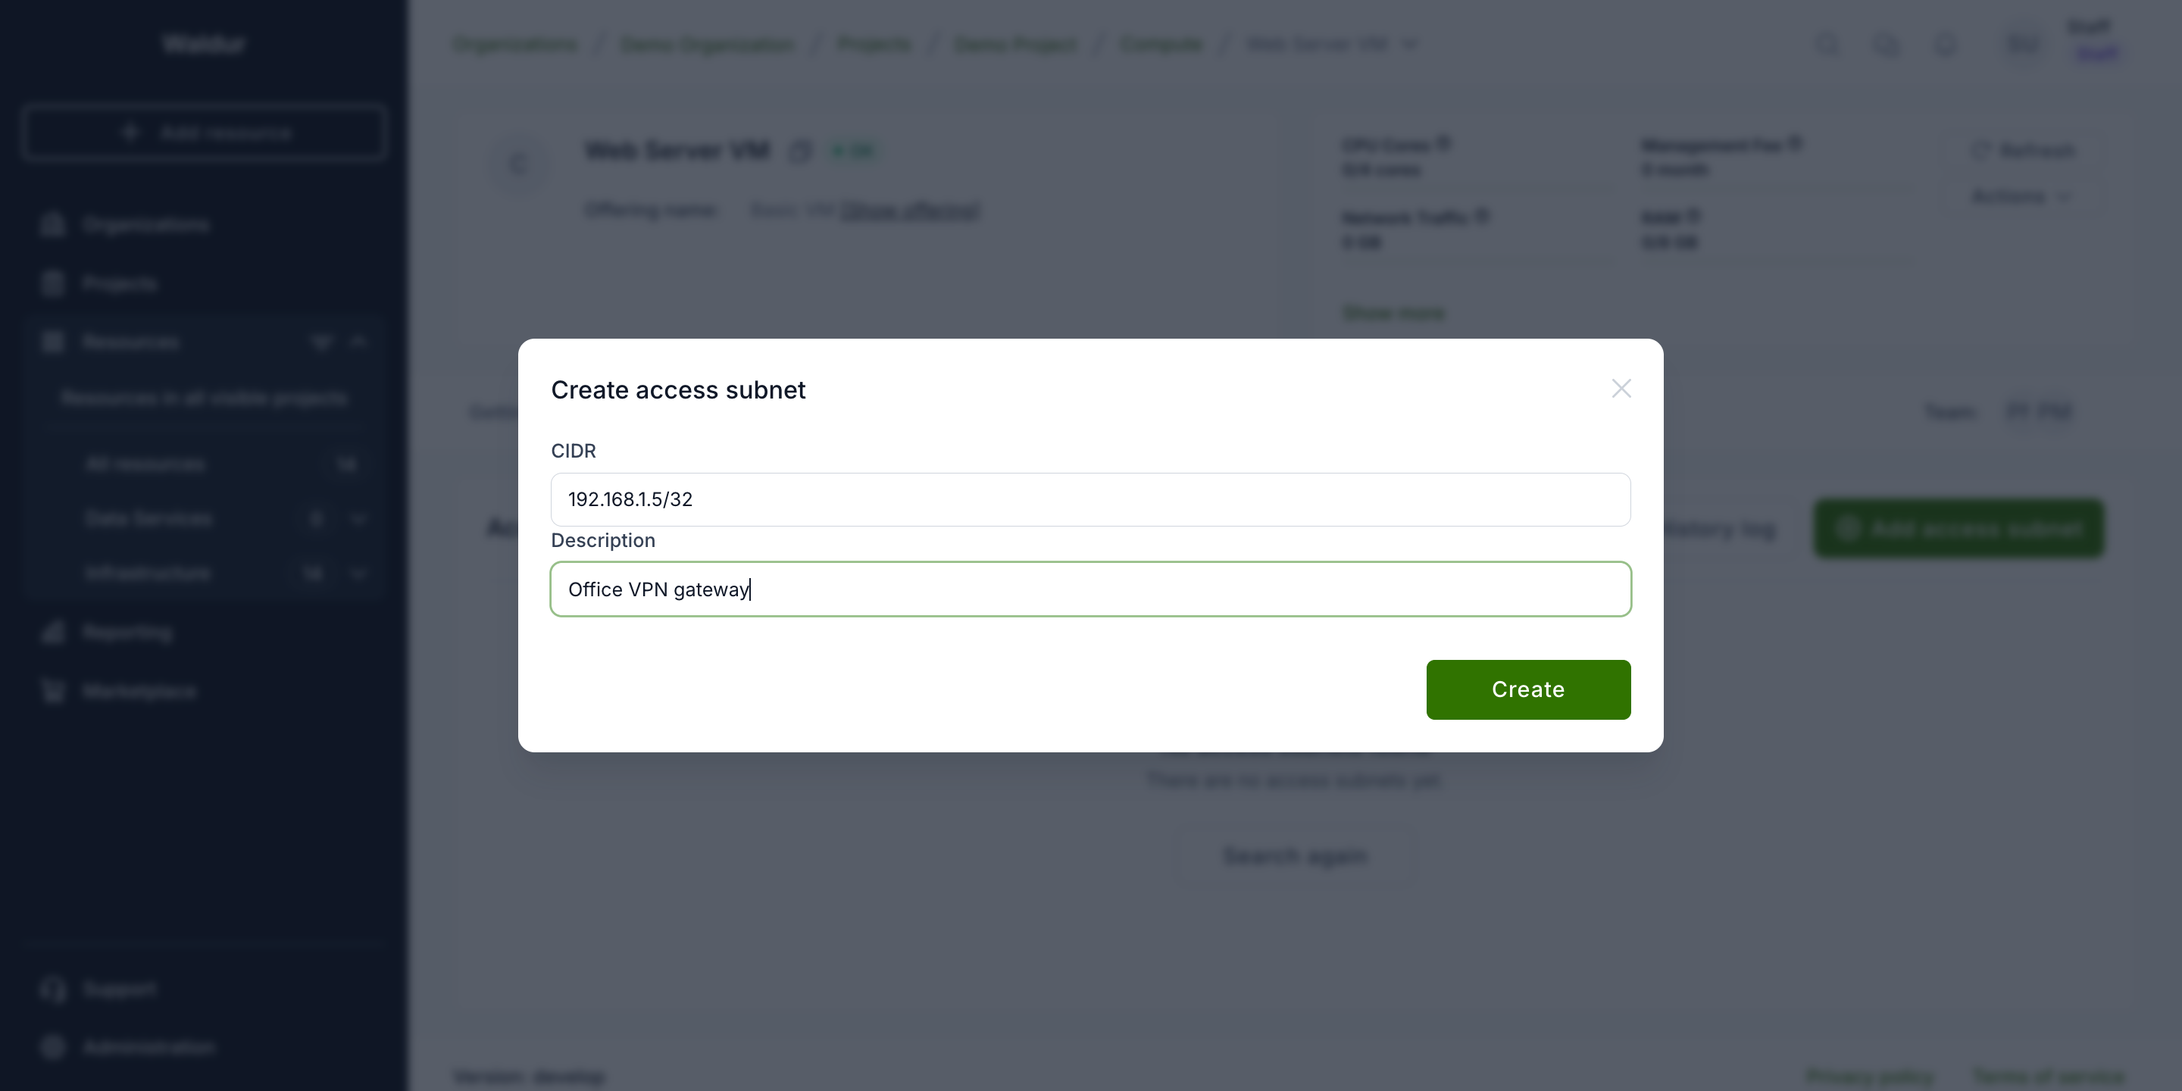
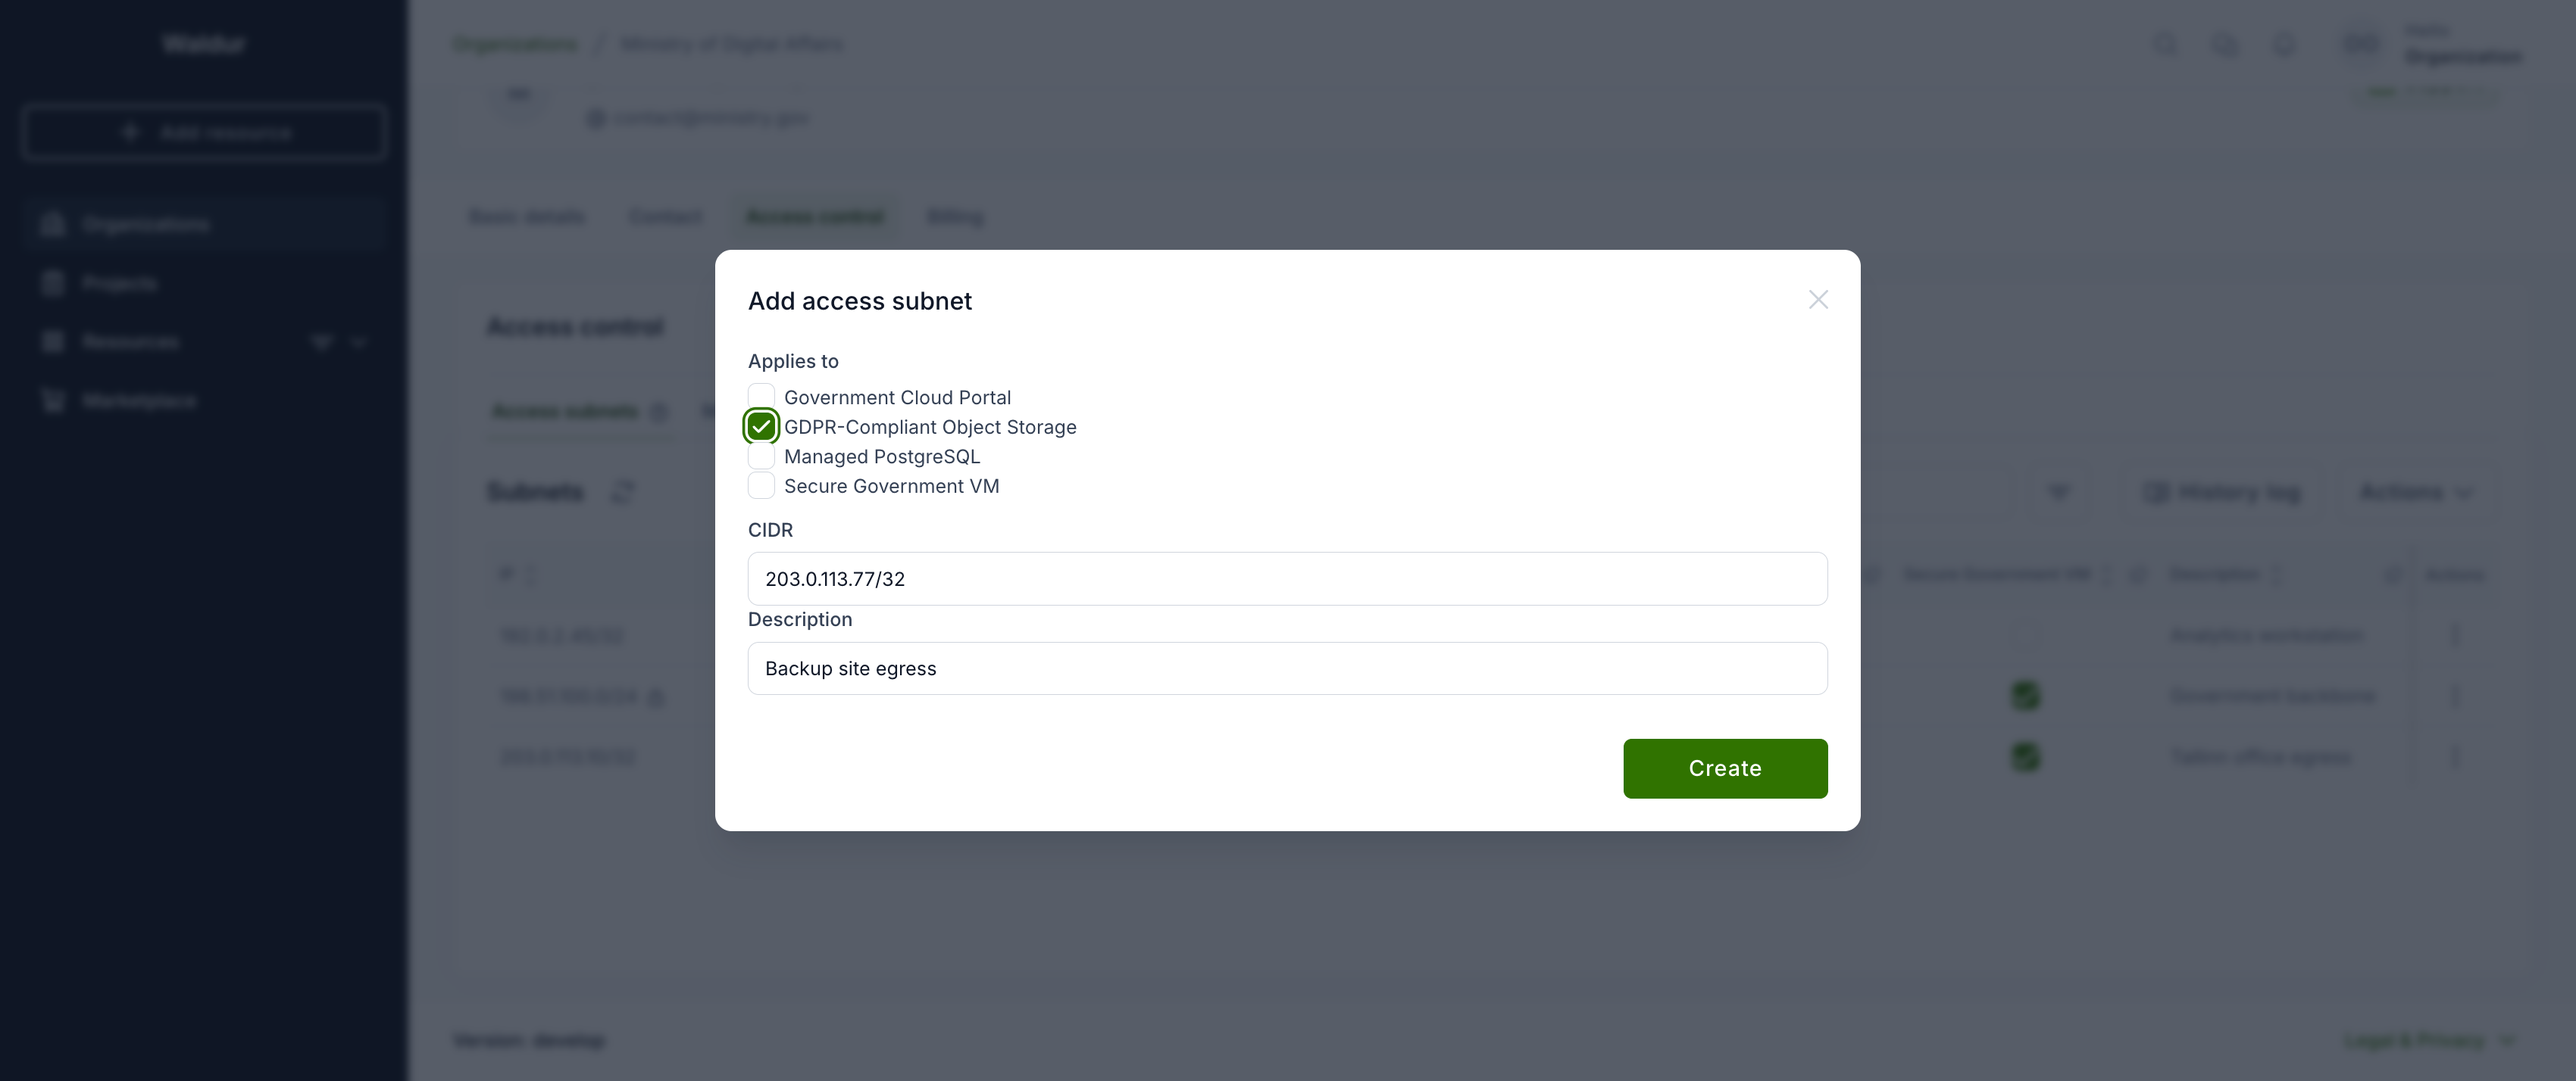
Rewrite access subnets for the unified organization list

diff --git a/docs/user-guide/customer-organization/resource-access-subnets.md b/docs/user-guide/customer-organization/resource-access-subnets.md
@@ -1,22 +1,113 @@
-# Resource access subnets
+# Access subnets
 
-Some offerings let you attach a list of **allowed access subnets** to each
-resource — the IP addresses that should be allowed to reach the backend entity
-the resource represents (for example the object storage bucket, database, or
-virtual machine behind the resource). Consumers add single hosts (`/32`), and
-the service provider can additionally publish wider **default** ranges on the
-offering (see below).
+An organization keeps one list of **trusted networks**. Each entry is an IP
+address or range, and says what it is trusted *for*:
 
-Waldur itself does not block traffic based on this list. The subnets are
-**advisory data**: they are published through the API so that an external
-firewall (or the service provider's automation) can build an allow-list and
-enforce it on the actual backend. Think of it as a curated allow-list that
-travels with the resource.
+- **signing in to the portal** on behalf of the organization, and/or
+- **reaching the resources** the organization holds of a particular offering —
+  the backend entity behind each resource, such as an object storage bucket, a
+  database, or a compute allocation.
+
+An address is therefore described once ("office egress") rather than maintained
+in two separate places.
+
+!!! warning
+    The two scopes do very different things. Portal sign-in is enforced by
+    Waldur itself. Offering scopes are, by default, **advisory data** — they are
+    published through the API so that an external firewall (or the provider's
+    automation) can build an allow-list and enforce it on the actual backend.
+    Waldur only blocks traffic on them if the offering enables
+    [concealment](#concealing-restricted-resources-optional).
+
+## Managing the list
+
+Open **Organization → Manage → Access control** and select the **Access
+subnets** tab. The table has one row per address and one column per thing it
+can be trusted for: your Waldur site, then each offering your organization
+consumes that supports access subnets.
+
+![The Access subnets tab](../img/resource-access-subnets-tab.png)
+
+To add an address, use **Actions → Add access subnet**. Enter the CIDR, an
+optional description, and tick what it should apply to. Leaving **Applies to**
+empty is fine — the entry is then trusted for nothing until you tick a column
+in the table.
+
+![Adding an access subnet](../img/resource-access-subnets-add.png)
+
+Ticking or unticking a cell asks for confirmation and names the change, so it
+is clear what is about to happen before anything is saved.
+
+![Confirming that an address applies to portal sign-in](../img/resource-access-subnets-confirm.png)
+
+!!! danger "Enabling the sign-in column"
+    As soon as **any** address is trusted for portal sign-in, only listed
+    addresses can sign in on behalf of the organization. Everyone signing in
+    from elsewhere loses access to it.
+
+    This is why the sign-in column is off by default, and why adding an address
+    to reach a bucket never restricts sign-in as a side effect.
+
+### What you may enter
+
+| Who | Allowed |
+|-----|---------|
+| Organization owners | a single IP address — `/32`, or `/128` for IPv6 |
+| Staff | any width except `/0` |
+
+A bare address such as `192.168.1.5` is treated as `192.168.1.5/32`.
+
+A network with host bits set (for example `203.0.113.5/24`) is rejected rather
+than silently widened to `203.0.113.0/24` — that would grant a whole range
+where a single host was written.
+
+!!! note "Entries added by staff"
+    An entry created by staff is marked with a lock and cannot be changed or
+    removed by anyone else, whatever its width. It stays visible so you can see
+    why an address is allowed. If staff later widens an entry you created, it
+    becomes staff-managed for the same reason.
+
+### Offerings you no longer use
+
+If your organization terminates its last resource of an offering, entries
+trusted for it are **kept** — reprovisioning then restores your protection
+without reconfiguring anything.
+
+Such a column is marked as no longer in use. You can untick it to remove the
+entry's scope, but you cannot add it back until the organization holds a
+resource of that offering again. While dormant, the addresses are not published
+to the firewall allow-list.
+
+### Addresses published by the provider
+
+Below the table, **Also allowed by the service provider** lists ranges the
+provider publishes on its own offerings. They widen what may reach your
+resources, they are included in the exported allow-list, and they cannot be
+changed here — only the provider can edit them.
+
+## Checking what it means for your resources
+
+**Actions → Show resource impact** lists every resource your organization
+holds, the addresses that can reach each, and whether the list is actually
+enforced. The row menu on an address answers the reverse question — which
+resources that one address reaches.
+
+![Resource impact across the organization's resources](../img/resource-access-subnets-impact.png)
+
+Only resources of offerings that support access subnets are listed. The rest
+have no allow-list that could apply to them, so including them would bury the
+resources whose exposure is actually in question.
+
+The view calls out two things the table cannot show:
+
+- resources that are **reachable from anywhere**, because their offering
+  supports access subnets but nothing is listed for them;
+- resources whose list is **advisory only**, published for an external firewall
+  but not enforced by Waldur.
 
 ## Enabling the feature (service provider)
 
-Access subnets are available only for resources whose offering opts in. The
-service provider enables it on their offering.
+Offering scopes are available only for offerings that opt in.
 
 1. Open the offering and go to **Edit → Integration → Operations**.
 2. Select the **Resource lifecycle** tab.
@@ -24,118 +115,84 @@ service provider enables it on their offering.
 
 ![Enabling resource access subnets on an offering](../img/resource-access-subnets-offering-toggle.png)
 
-Once enabled, every resource created from that offering shows an **Access
-subnets** tab, and the offering's **Manage** view gains an **Access subnets**
-tab. That view is a single table with two sub-tabs — **Default allowed subnets**
-(the provider's own ranges, editable here) and **Access subnets by resource**
-(a read-only roll-up of every resource's subnets) — plus a **Firewall
-allow-list** button that shows the merged, collapsed list ready to copy or
-download.
+Once enabled, consumers can trust addresses for that offering, each of its
+resources shows a read-only **Access subnets** tab, and the offering's
+**Manage** view gains an **Access subnets** tab with two sub-tabs — **Default
+allowed subnets** (the provider's own ranges, editable here) and **Access
+subnets by organization** (a read-only roll-up of what consumers have listed)
+— plus a **Firewall allow-list** button showing the merged list ready to copy
+or download.
 
 !!! note
-    Editing this setting requires permission to manage the offering (the
-    offering's service manager or the provider organization owner).
+    Editing this setting requires permission to manage the offering — the
+    offering's service manager or the provider organization owner.
 
 ### Concealing restricted resources (optional)
 
-By default the subnets are advisory only — Waldur stores and publishes them but
-does not act on them. The **Resource lifecycle** tab has a second toggle,
-**Conceal subnet-restricted resources**, that opts the offering into enforcement:
+The **Resource lifecycle** tab has a second toggle, **Conceal
+subnet-restricted resources**, which opts the offering into enforcement by
+Waldur itself.
 
-When it is on, a resource of this offering that has one or more access subnets is
-**hidden from the consumer API** unless the caller's IP address is in that
-resource's allow-list. The resource disappears from resource lists and returns
-*not found* on direct access.
+When it is on, a resource of this offering is **hidden from the consumer API**
+unless the caller's IP address is trusted for it. The resource disappears from
+resource lists and returns *not found* on direct access.
 
 !!! warning
-    This is the one place the feature changes Waldur's own behaviour. It applies
-    to the **consumer** side only — service providers and the site-agent keep
-    full visibility — and **staff and support are exempt**. Resources that have
-    no access subnets are never concealed. Turn it on only if consumers are
-    expected to reach the portal from the same networks listed in the allow-list,
-    or you may lock them out of their own resources.
+    This is the one place the feature changes Waldur's own behaviour. It
+    applies to the **consumer** side only — service providers and the
+    site-agent keep full visibility — and **staff and support are exempt**.
+
+    An organization that has listed nothing for the offering is not restricted,
+    so enabling this does not lock anyone out on its own. Turn it on only if
+    consumers are expected to reach the portal from the same networks they
+    list, or you may lock them out of their own resources.
 
 ### Provider default subnets (optional)
 
-Beside the per-resource entries curated by consumers, the service provider can
-publish **default allowed subnets** on the offering — broader CIDR ranges
-(`/24`, `/16`, …), not just single hosts. Manage them on the offering's
-**Manage → Access subnets** view, under the **Default allowed subnets** tab
-(use **Add default subnet**, or the row menu to edit or remove one).
-
-![Provider default subnets on the offering Manage view](../img/resource-access-subnets-manage.png)
+Besides what consumers list, the provider can publish **default allowed
+subnets** on the offering — broader ranges (`/24`, `/16`, …), not just single
+hosts. Manage them on the offering's **Manage → Access subnets** view, under
+**Default allowed subnets**.
 
 These defaults:
 
-- are shown **read-only to consumers** on each resource's **Access subnets** tab,
-  above their own entries, so users see which networks are already allowed;
-- **widen the concealment allow-list** — when concealment is on, a caller whose IP
-  falls in a default range can reach the resource even without a matching
-  per-resource `/32`;
-- are **included in the exported firewall allow-list** (both the packed list and
-  the command-line dump), merged with the per-resource subnets.
-
-!!! note
-    Provider defaults may be any CIDR width; consumer per-resource entries remain
-    single hosts (`/32`). Only the provider can edit the defaults.
-
-## Managing access subnets (organization owners and project teams)
-
-Open a resource of an opted-in offering and select the **Access subnets** tab.
-The tab lists the currently allowed subnets with their CIDR and a description.
-
-![Access subnets tab on a resource](../img/resource-access-subnets-tab.png)
-
-To add an entry:
-
-1. Click **Add access subnet**.
-2. Enter the IP address as a `/32` CIDR (for example `192.168.1.5/32`) and an
-   optional description such as the host or office it belongs to.
-3. Click **Create**.
-
-![Adding an access subnet](../img/resource-access-subnets-add.png)
-
-Use the three-dots menu on a row to edit or remove an entry. Changes are
-recorded in the resource's history log.
-
-!!! tip
-    Only single IP addresses (`/32`) are accepted. A bare address such as
-    `192.168.1.5` is treated as `192.168.1.5/32`.
-
-Managing the list requires resource management permission — organization
-owners, project managers, and project administrators can edit it. Other users
-see the list read-only.
+- are shown **read-only to consumers**, so they can see which networks are
+  already allowed;
+- **widen the concealment allow-list** — a caller within a default range can
+  reach the resource even without a matching consumer entry;
+- are **included in the exported firewall allow-list**, merged with consumer
+  entries.
 
 ## Getting the allow-list
 
-The allow-list — the per-resource subnets and the offering defaults, merged and
-collapsed into the minimal set of CIDRs — is available three ways, all producing
-the same result:
+The allow-list — consumer entries and provider defaults, merged and collapsed
+into the minimal set of CIDRs — is available three ways, all producing the same
+result:
 
 - **From the UI** — on the offering's **Manage → Access subnets** view, click
   **Firewall allow-list**. The dialog shows the merged CIDRs with **Copy** and
   **Download** actions.
 
     ![Firewall allow-list dialog](../img/resource-access-subnets-allow-list.png)
+
 - **From the API** — `GET /api/marketplace-provider-offerings/{uuid}/access_subnets/`
-  returns `expanded` (every subnet with its resource, project and organization),
-  `packed` (the merged allow-list), and `defaults` (the provider ranges). The
-  raw per-resource entries are also available at
-  `/api/marketplace-resource-access-subnets/` (filterable by `offering_uuid`),
-  each carrying the resource's backend identifier so a firewall can map an entry
-  to the backend it guards.
+  returns `expanded` (every address with its organization and offering),
+  `packed` (the merged allow-list) and `defaults` (the provider ranges). An
+  organization's own entries are at `/api/access-subnets/`, filterable by
+  `customer_uuid` and `offering_uuid`.
 
     To build one allow-list spanning **several offerings**, use
     `GET /api/marketplace-provider-offerings/aggregated_access_subnets/` with a
     repeated `offering_uuid` query parameter
     (`?offering_uuid=<uuid>&offering_uuid=<uuid>`). It returns the same
     `expanded`, `packed` and `defaults` fields across all requested offerings,
-    plus `organization_subnets` — the organization-level access subnets of
-    customers owning non-terminated resources of the offerings, populated when
+    plus `organization_subnets` — the sign-in addresses of organizations owning
+    non-terminated resources of those offerings, populated when
     `include_organization_subnets=true` is passed and merged into `packed`. The
     caller must have provider-side access to every requested offering.
-- **From the command line** — run the `resource_access_subnets` management
-  command to dump the merged list, for one offering, several, or all:
+
+- **From the command line** — `resource_access_subnets` dumps the merged list
+  for one offering, several, or all:
 
     ```bash
     # merged allow-list for a single offering
@@ -144,8 +201,8 @@ the same result:
     # several offerings at once (repeat the flag)
     waldur resource_access_subnets --offering <uuid-1> --offering <uuid-2>
 
-    # also merge in the organization-level subnets of customers
-    # owning non-terminated resources of the selected offerings
+    # also merge in the sign-in addresses of organizations
+    # holding non-terminated resources of the selected offerings
     waldur resource_access_subnets --offering <offering-uuid> --include-organization-subnets
 
     # all offerings, written to a file
@@ -153,10 +210,15 @@ the same result:
     ```
 
 An external firewall typically pulls the API endpoint's `packed` list, or runs
-the command on a schedule (e.g. via cron) and reloads the resulting file.
+the command on a schedule and reloads the resulting file.
+
+!!! note "Sign-in addresses are exported separately"
+    `organization_access_subnets` dumps only the addresses trusted for **portal
+    sign-in**. Addresses trusted only for reaching resources are not included —
+    those belong to `resource_access_subnets` above.
 
 !!! warning
-    Getting the allow-list does not change access on its own. Unless the offering
-    enables **concealment** (above), Waldur only stores and publishes the
-    subnets — the external firewall or provider automation that consumes the list
-    is responsible for enforcing it on the backend.
+    Getting the allow-list does not change access on its own. Unless the
+    offering enables **concealment**, Waldur only stores and publishes the
+    addresses — the external firewall or provider automation that consumes the
+    list is responsible for enforcing it on the backend.
